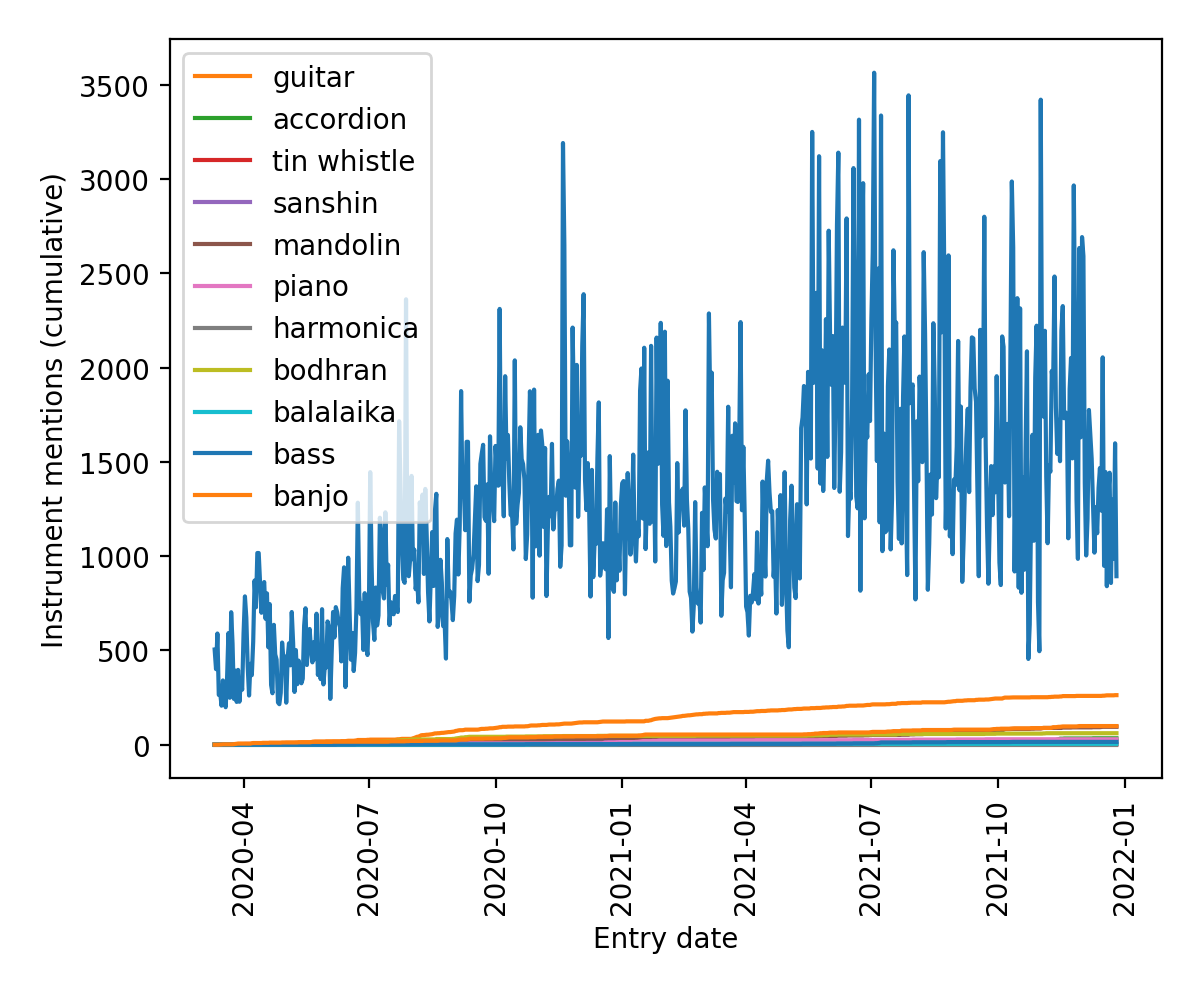
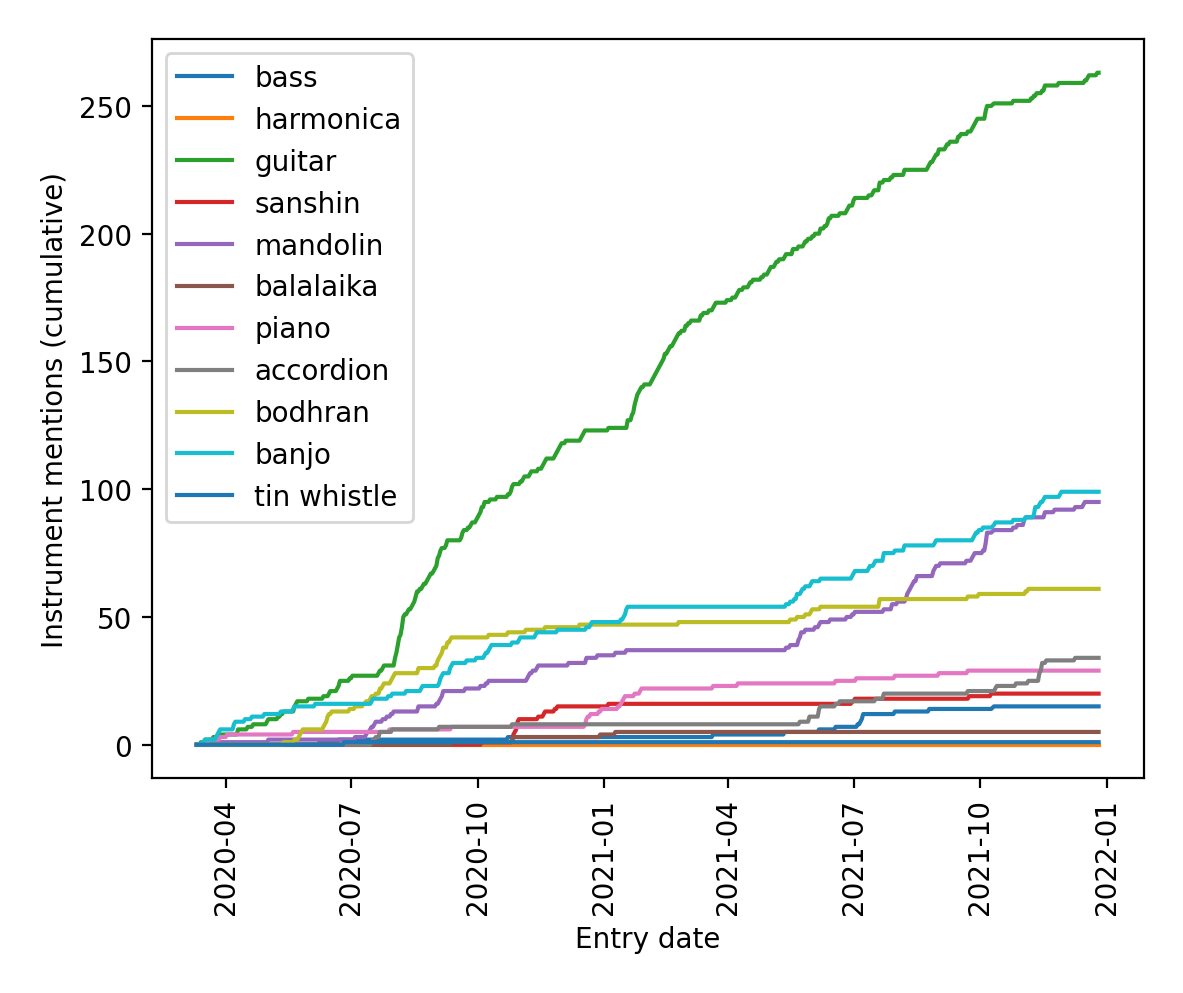
Fix overlapping plots

diff --git a/process_journal.py b/process_journal.py
@@ -13,7 +13,7 @@ import string
 import nltk
 from nltk.sentiment import SentimentIntensityAnalyzer
 import matplotlib.dates as mdates
-
+from nltk import ngrams
 
 def parse_entries(filePath):
 	entryDict = {}
@@ -36,6 +36,7 @@ def get_text(entryDict):
 
 def save_figure(figureName):
 	plt.savefig(f'{figureName}.png', dpi=200, bbox_inches='tight', pad_inches=0.2)
+	plt.cla()
 	return
 
 def get_entry_lengths(entryDict, sortedDates):
